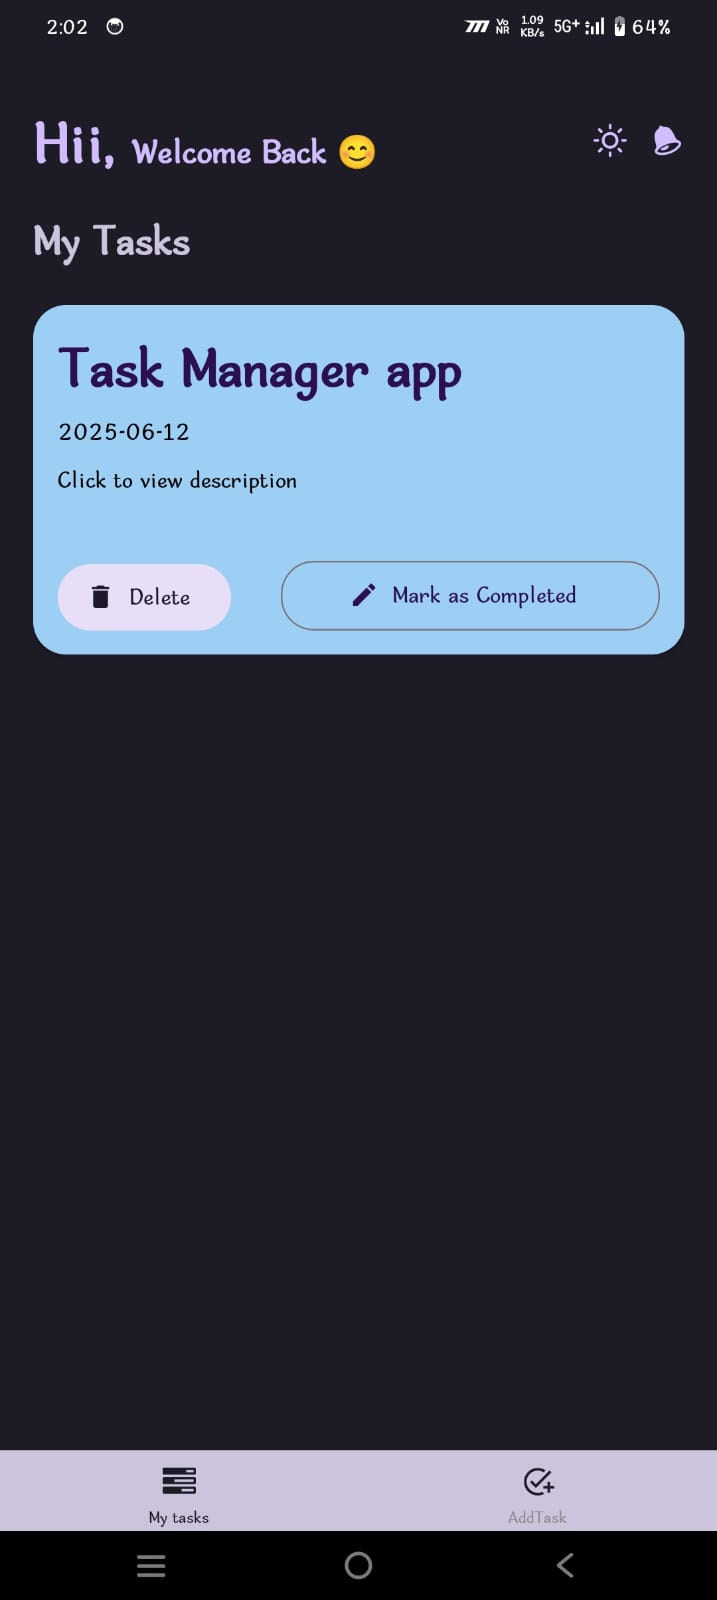
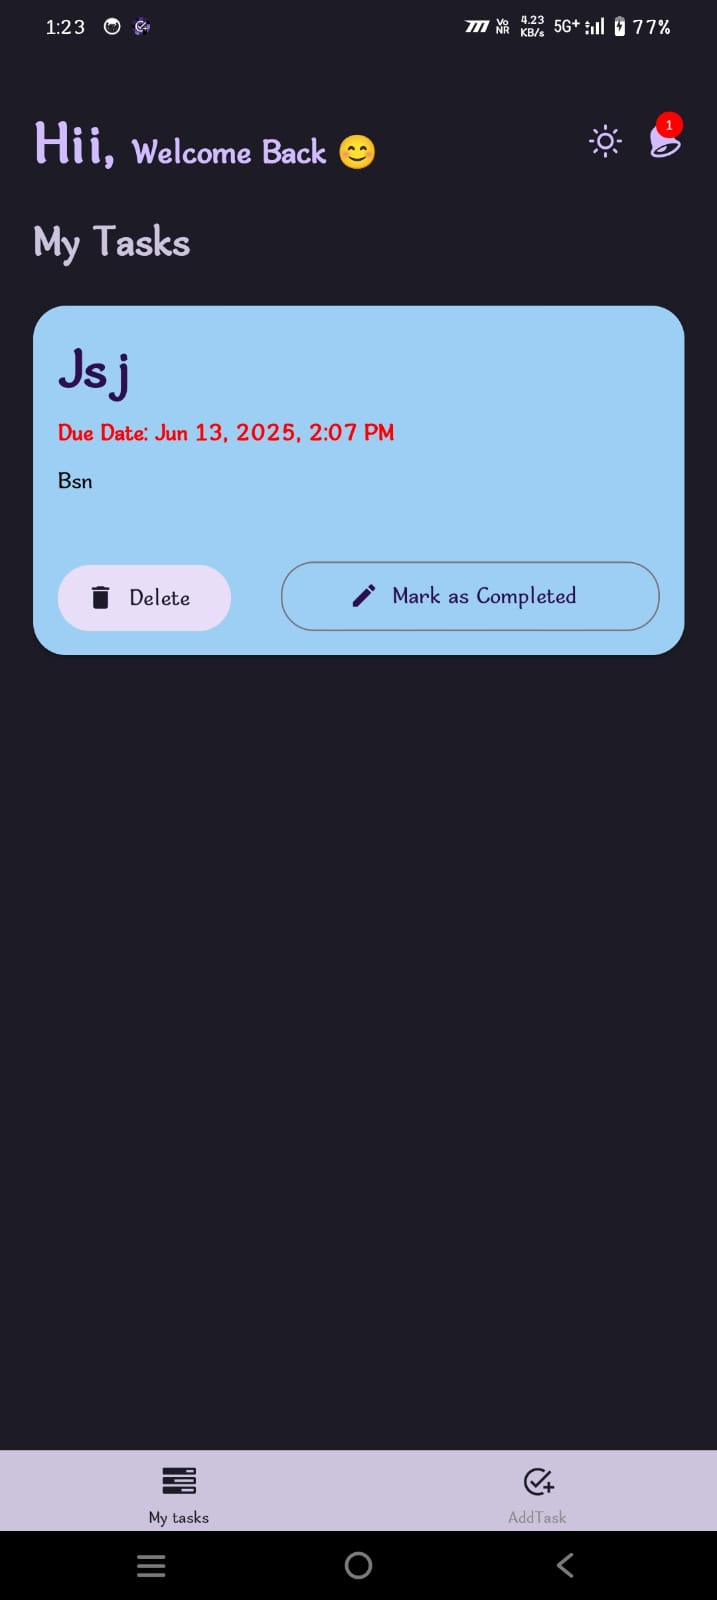
reduced apk size

diff --git a/README.md b/README.md
@@ -1,14 +1,30 @@
-# TaskManager
+# Task Manager App
 
-A modern, user-friendly task management app built with React Native. TaskManager helps you organize your tasks efficiently with a beautiful UI and smooth user experience.
+A React Native application for managing tasks with a beautiful UI and intuitive features.
 
 ## Features
 
-- **Task Management**: Add, delete, and mark tasks as completed.
-- **Persistent Storage**: Tasks are saved locally using AsyncStorage, so they remain even after closing the app.
-- **Dark Mode**: Toggle between light and dark themes for comfortable viewing.
-- **Responsive UI**: Clean and intuitive interface with smooth animations.
-- **Cross-Platform**: Works on both Android and iOS.
+### Task Management
+- Create, delete, and mark tasks as complete
+- Add task descriptions and due dates
+- Beautiful card-based UI with color-coded tasks
+- Dark/Light mode support
+- Persistent storage using AsyncStorage
+
+### Smart Notifications
+- Automatic notifications for tasks due within 24 hours
+- Immediate notification when a task is due within 2 hours
+- Notification badge showing count of upcoming tasks
+- Visual indicators for tasks due soon (red text)
+- Notification permission handling
+
+### UI/UX Features
+- Clean and modern interface
+- Smooth animations and transitions
+- Responsive design
+- Intuitive navigation
+- Task completion status indicators
+- Due date formatting with time display
 
 ## Screenshots
 
@@ -18,33 +34,42 @@ A modern, user-friendly task management app built with React Native. TaskManager
 <img src="assets/task-list.jpg" alt="Task List" width="300" />
 <img src="assets/dark-mode.jpg" alt="Dark Mode" width="300" />
 
-## Installation
+## Getting Started
 
-1. **Clone the repository**:
-   ```bash
-   git clone https://github.com/yourusername/TaskManager.git
-   cd TaskManager
-   ```
+### Prerequisites
+- Node.js
+- React Native development environment
+- Android Studio (for Android development)
+- Xcode (for iOS development)
 
-2. **Install dependencies**:
-   ```bash
-   npm install
-   ```
+### Installation
+1. Clone the repository
+```bash
+git clone [repository-url]
+```
 
-3. **Install AsyncStorage** (if not already installed):
-   ```bash
-   npm install @react-native-async-storage/async-storage
-   ```
+2. Install dependencies
+```bash
+cd TaskManager
+npm install
+```
 
-4. **Run the app**:
-   - For Android:
-     ```bash
-     npm run android
-     ```
-   - For iOS:
-     ```bash
-     npm run ios
-     ```
+3. Run the application
+```bash
+# For Android
+npm run android
+
+# For iOS
+npm run ios
+```
+
+## Dependencies
+- React Native
+- React Navigation
+- React Native Paper
+- @notifee/react-native (for notifications)
+- @react-native-async-storage/async-storage
+- React Native Vector Icons
 
 ## Usage
 
@@ -80,9 +105,7 @@ To generate a release APK for Android:
 5. **Find the APK** at `android/app/build/outputs/apk/release/app-release.apk`.
 
 ## Contributing
-
-Contributions are welcome! Please feel free to submit a Pull Request.
+Feel free to submit issues and enhancement requests!
 
 ## License
-
-This project is licensed under the MIT License - see the LICENSE file for details.
+This project is licensed under the MIT License.
